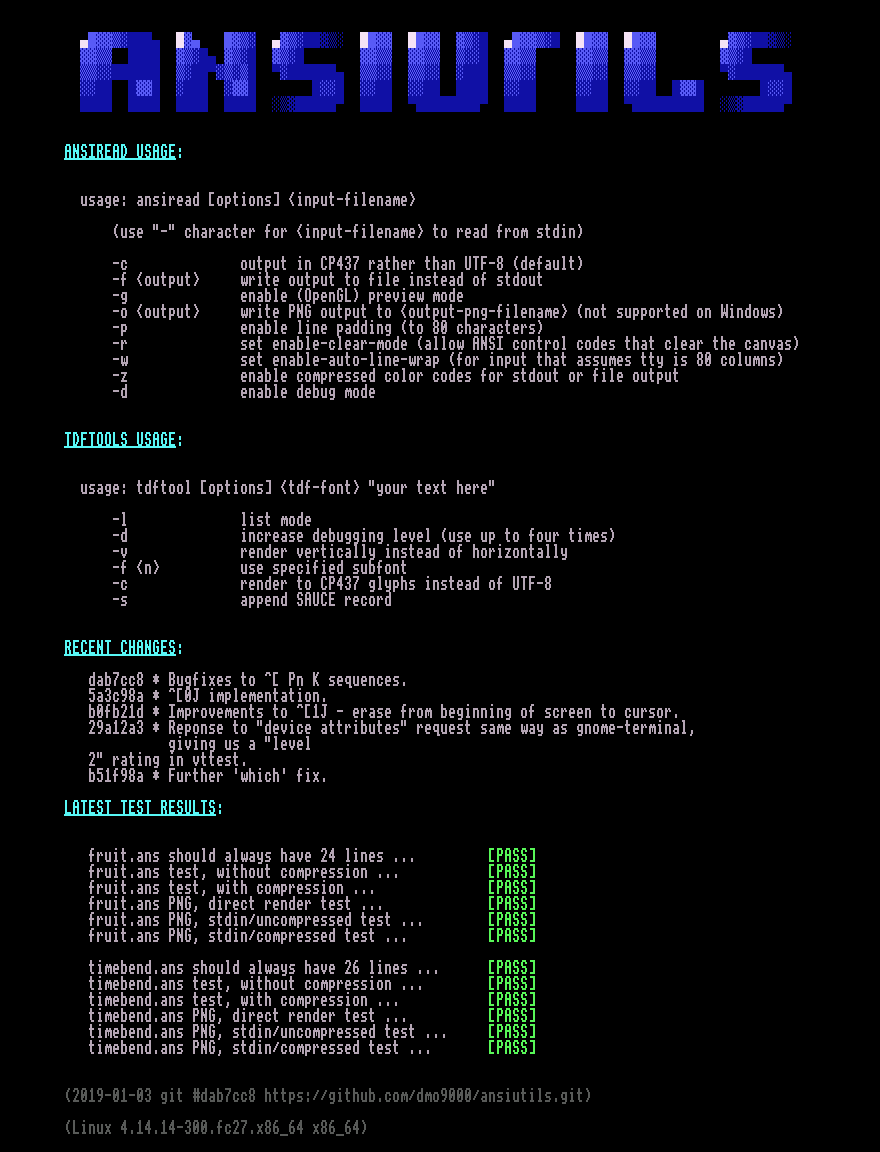
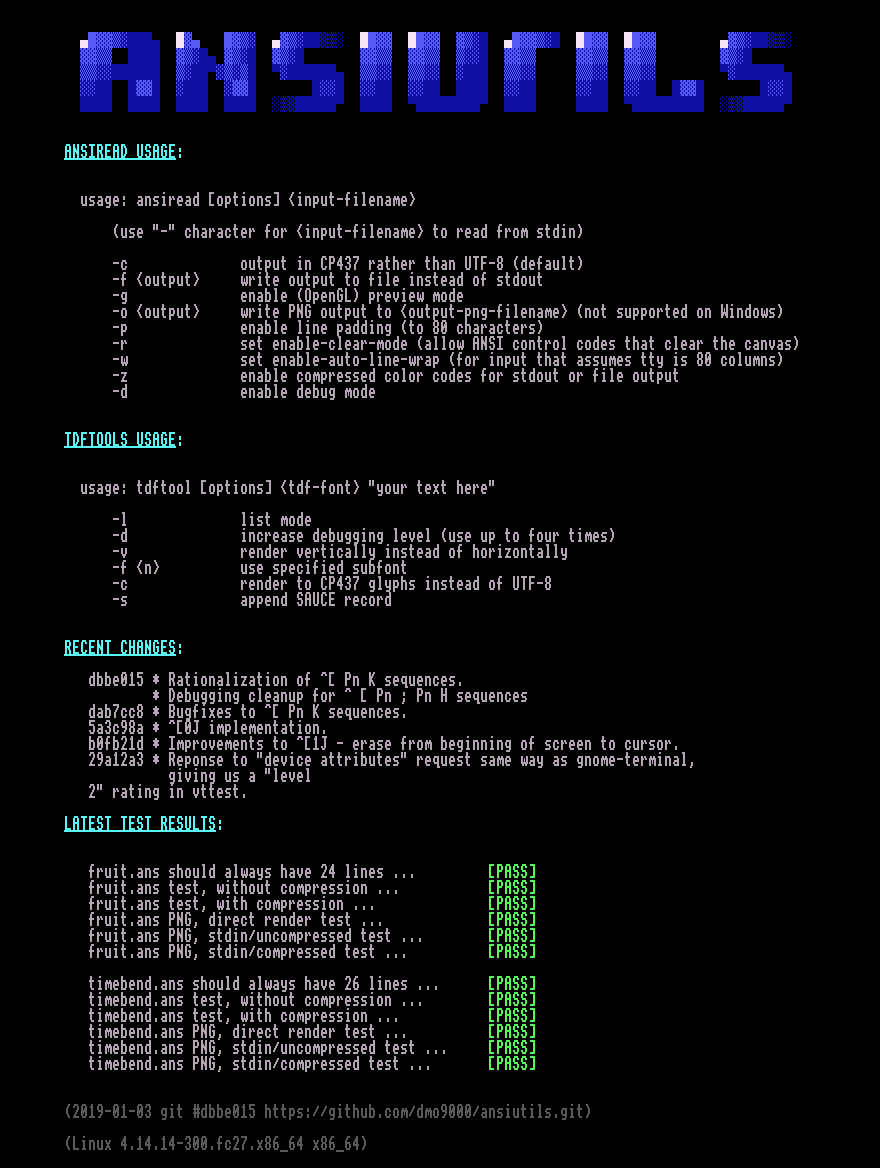
Fixes for better vttest compat.

diff --git a/ansistate.c b/ansistate.c
@@ -157,6 +157,8 @@ void ansi_debug_dump()
     printf("ansi_offset = %u\n", ansi_offset);
     printf("paramidx = %u\n", paramidx);
     printf("\n");
+
+    printf("Cursor Position: %d,%d\n\n", current_x, current_y);
     printf("Flags:\n");
 
     if (!ansiflags) {
@@ -418,6 +420,10 @@ bool ansi_to_canvas(ANSICanvas *canvas, unsigned char *buf, size_t nbytes, size_
 
             if (c == 'E') {
                 // next line? current_y++, current_x = 0
+                fprintf(stderr, "+++ ^E - ???\n");
+                ansi_seqbuf[ansi_offset] = c;
+                ansi_offset++;
+                //ansi_debug_dump();
                 current_x = 0;
                 current_y ++;
                 clear_ansi_flags(FLAG_ALL);
@@ -426,7 +432,12 @@ bool ansi_to_canvas(ANSICanvas *canvas, unsigned char *buf, size_t nbytes, size_
 
             if (c == 'M') {
                 // reverse index mode - set current_x = 0?
-                current_x = 0;
+                fprintf(stderr, "+++ 1B->M (Reverse Index) command\n");
+                ansi_seqbuf[ansi_offset] = c;
+                ansi_offset++;
+                //ansi_debug_dump();
+                //current_x = 0;
+                current_y --;
                 clear_ansi_flags(FLAG_ALL);
                 break;
             }
@@ -677,7 +688,7 @@ bool ansi_to_canvas(ANSICanvas *canvas, unsigned char *buf, size_t nbytes, size_
                 ansi_seqbuf[ansi_offset] = c;
                 ansi_offset++;
                 printf("error: expecting digit, got '%c' (0x%02x), %u parameter, paramval = %u\n", c, c, paramidx, paramval);
-								dispatch_ansi_command(canvas, c);
+                dispatch_ansi_command(canvas, c);
                 //ansi_debug_dump();
                 //assert(NULL);
             }
@@ -1066,6 +1077,20 @@ void dispatch_ansi_cursor_right(ANSICanvas *canvas)
     ANSIRaster *r = NULL;
     uint16_t n = parameters[0];
     uint16_t extend_len = 0;
+
+    /* there is a trick to this one - the parameter can only have a minimum
+    		value of 1, even if a parameter is passed which is zero, or
+    		no parameter is passed. The minimum number of spaces the cursor
+    		can move to the right is 1 */
+
+    if (!n) {
+        n = 1;
+    }
+
+    fprintf(stderr, "+++ ^[%dC (dispatch_ansi_cursor_right)\n", parameters[0]);
+    fprintf(stderr, "parameters[0]=%u\n", parameters[0]);
+    fprintf(stderr, "current_x=%u\n", current_x);
+
     if (debug_flag) {
         printf("  > move cursor right %u characters [%u,%u]->[%u,%u]\n", n, current_x, current_y, current_x+n, current_y);
     }
@@ -1092,13 +1117,24 @@ void dispatch_ansi_cursor_right(ANSICanvas *canvas)
         }
     }
     current_x += n;
+
+    fprintf(stderr, "+++ position = %d,%d\n", current_x, current_y);
     return;
 
 }
 
 void dispatch_ansi_cursor_left(ANSICanvas *canvas)
 {
-    current_x -= parameters[0];
+    fprintf(stderr, "+++ ^[%dD (dispatch_ansi_cursor_left)\n", parameters[0]);
+    fprintf(stderr, "parameters[0]=%u\n", parameters[0]);
+    fprintf(stderr, "current_x=%u\n", current_x);
+    if (parameters[0] > current_x) {
+        /* careful here - comparison between signed/unsigned? */
+        current_x = 0;
+    } else {
+        current_x -= parameters[0];
+    }
+    fprintf(stderr, "+++ position = %d,%d\n", current_x, current_y);
     return;
 }
 
@@ -1191,19 +1227,18 @@ void dispatch_ansi_command(ANSICanvas *canvas, unsigned char c)
         canvas->is_dirty= true;
         break;
     case 'D':
-        /* move cursor to the left N characters */
         dispatch_ansi_cursor_left(canvas);
         break;
     case 'f':
     /* direct cursor addressing  - same as 'H' */
     case 'H':
         /* set cursor home - move the cursor to the specified position */
-            if (debug_flag) {
+        //    if (debug_flag) {
         fprintf(stderr, "+++ SET CURSOR HOME(%u, %u)\n", parameters[1], parameters[0]);
-           }
+        // }
 
         if (debug_flag) {
-            fprintf(stderr, "1) set_cursor_home(%u,%u)\n", current_x, current_y);
+            fprintf(stderr, " 1) set_cursor_home(%u,%u)\n", current_x, current_y);
         }
 
         if (parameters[1] > 0) {
@@ -1219,7 +1254,7 @@ void dispatch_ansi_command(ANSICanvas *canvas, unsigned char c)
         }
 
         if (debug_flag) {
-            fprintf(stderr, "2) set_cursor_home(%u,%u)\n", current_x, current_y);
+            fprintf(stderr, " 2) set_cursor_home(%u,%u)\n", current_x, current_y);
         }
 
         /* very dodgy - hardcoded is bad. we might want to find some other way to calculate these,
@@ -1233,9 +1268,9 @@ void dispatch_ansi_command(ANSICanvas *canvas, unsigned char c)
             current_y = CONSOLE_HEIGHT -1;
         }
 
-        if (debug_flag) {
-            fprintf(stderr, "3) set_cursor_home(%u,%u)\n", current_x, current_y);
-        }
+//        if (debug_flag) {
+        fprintf(stderr, " 3) set_cursor_home(%u,%u)\n", current_x, current_y);
+//        }
 
         break;
     case 'M':
@@ -1243,6 +1278,7 @@ void dispatch_ansi_command(ANSICanvas *canvas, unsigned char c)
         /* delete line - UE4 prototype has implementation of this*/
         //fprintf(stderr, "[DELETE LINES %u:%d]\n", current_y, parameters[0]);
         //fprintf(stderr, "default raster length = %u\n", canvas->default_raster_length);
+        ansi_debug_dump();
         assert(paramidx == 1);
         for (i = 0; i < parameters[0]; i++) {
             /* add raster to end */
@@ -1366,7 +1402,7 @@ void dispatch_ansi_command(ANSICanvas *canvas, unsigned char c)
 
         if (!paramidx) {
             fprintf(stderr, "+++ 'K' command -- erase from cursor to end of line\n");
-         //   ansi_debug_dump();
+            //   ansi_debug_dump();
         }
 
         switch (parameters[0]) {
